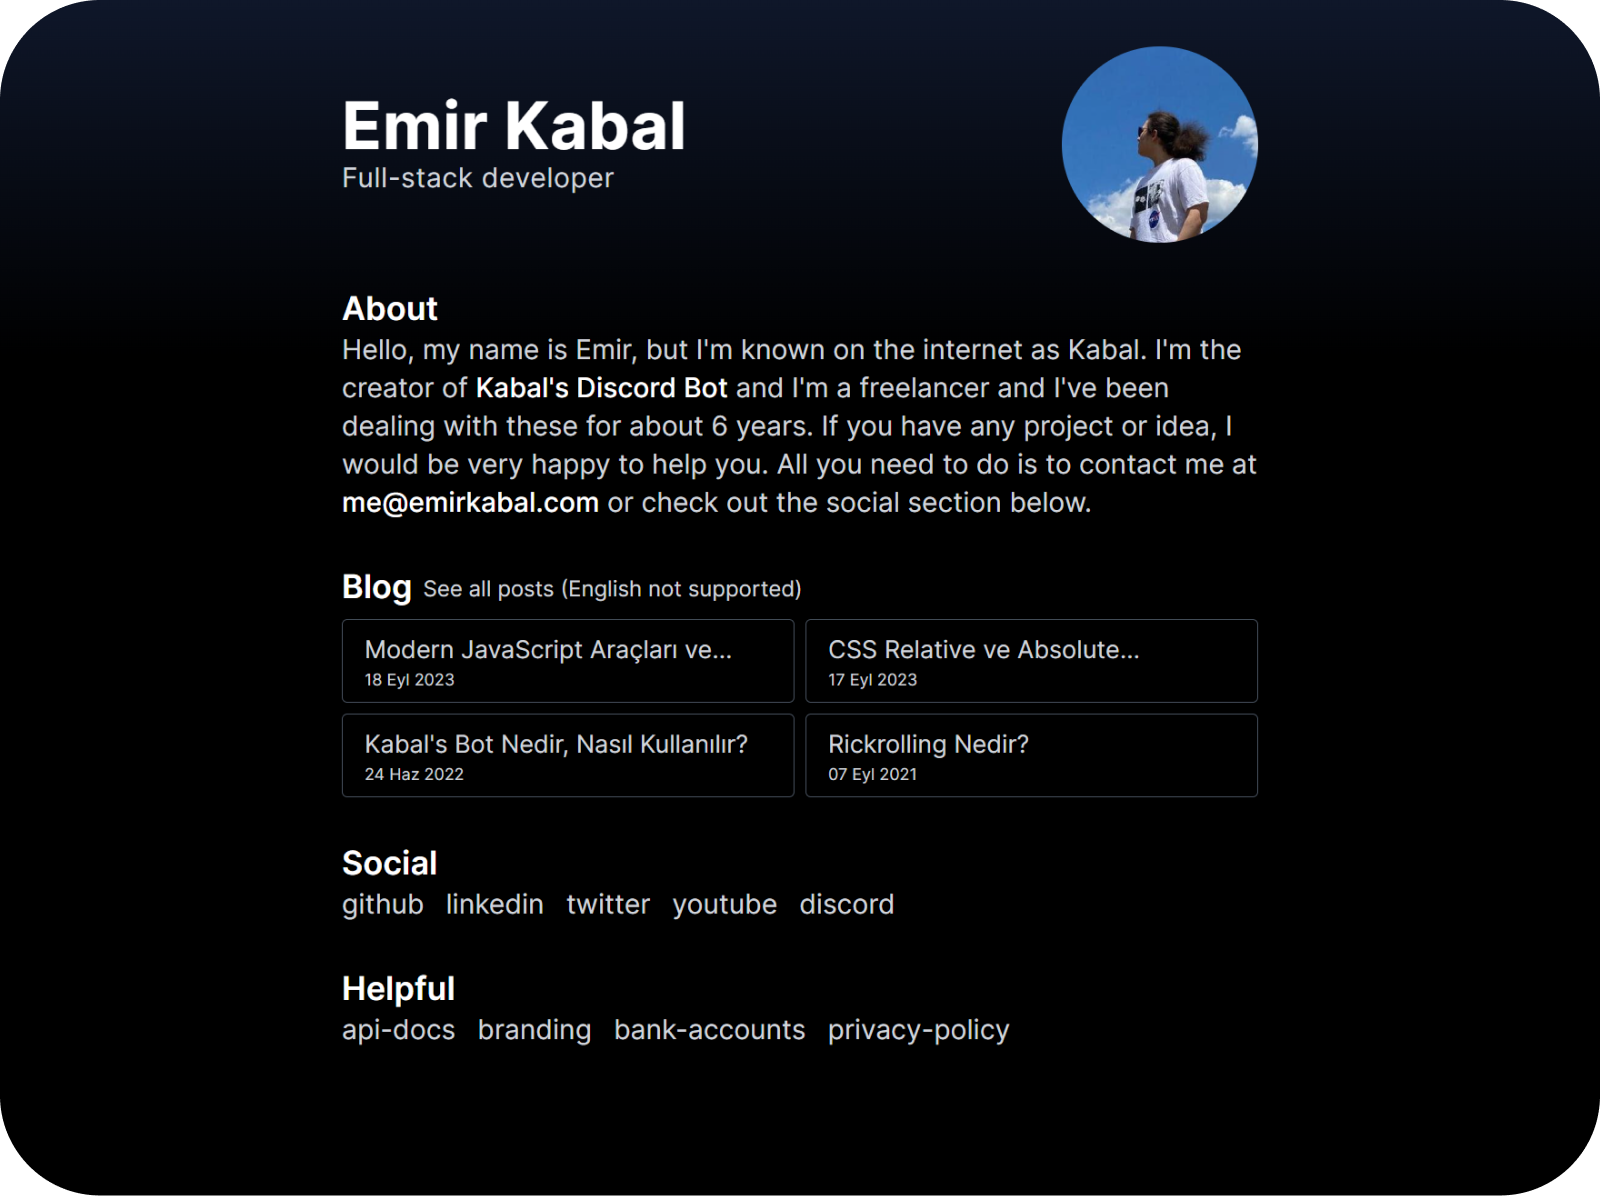
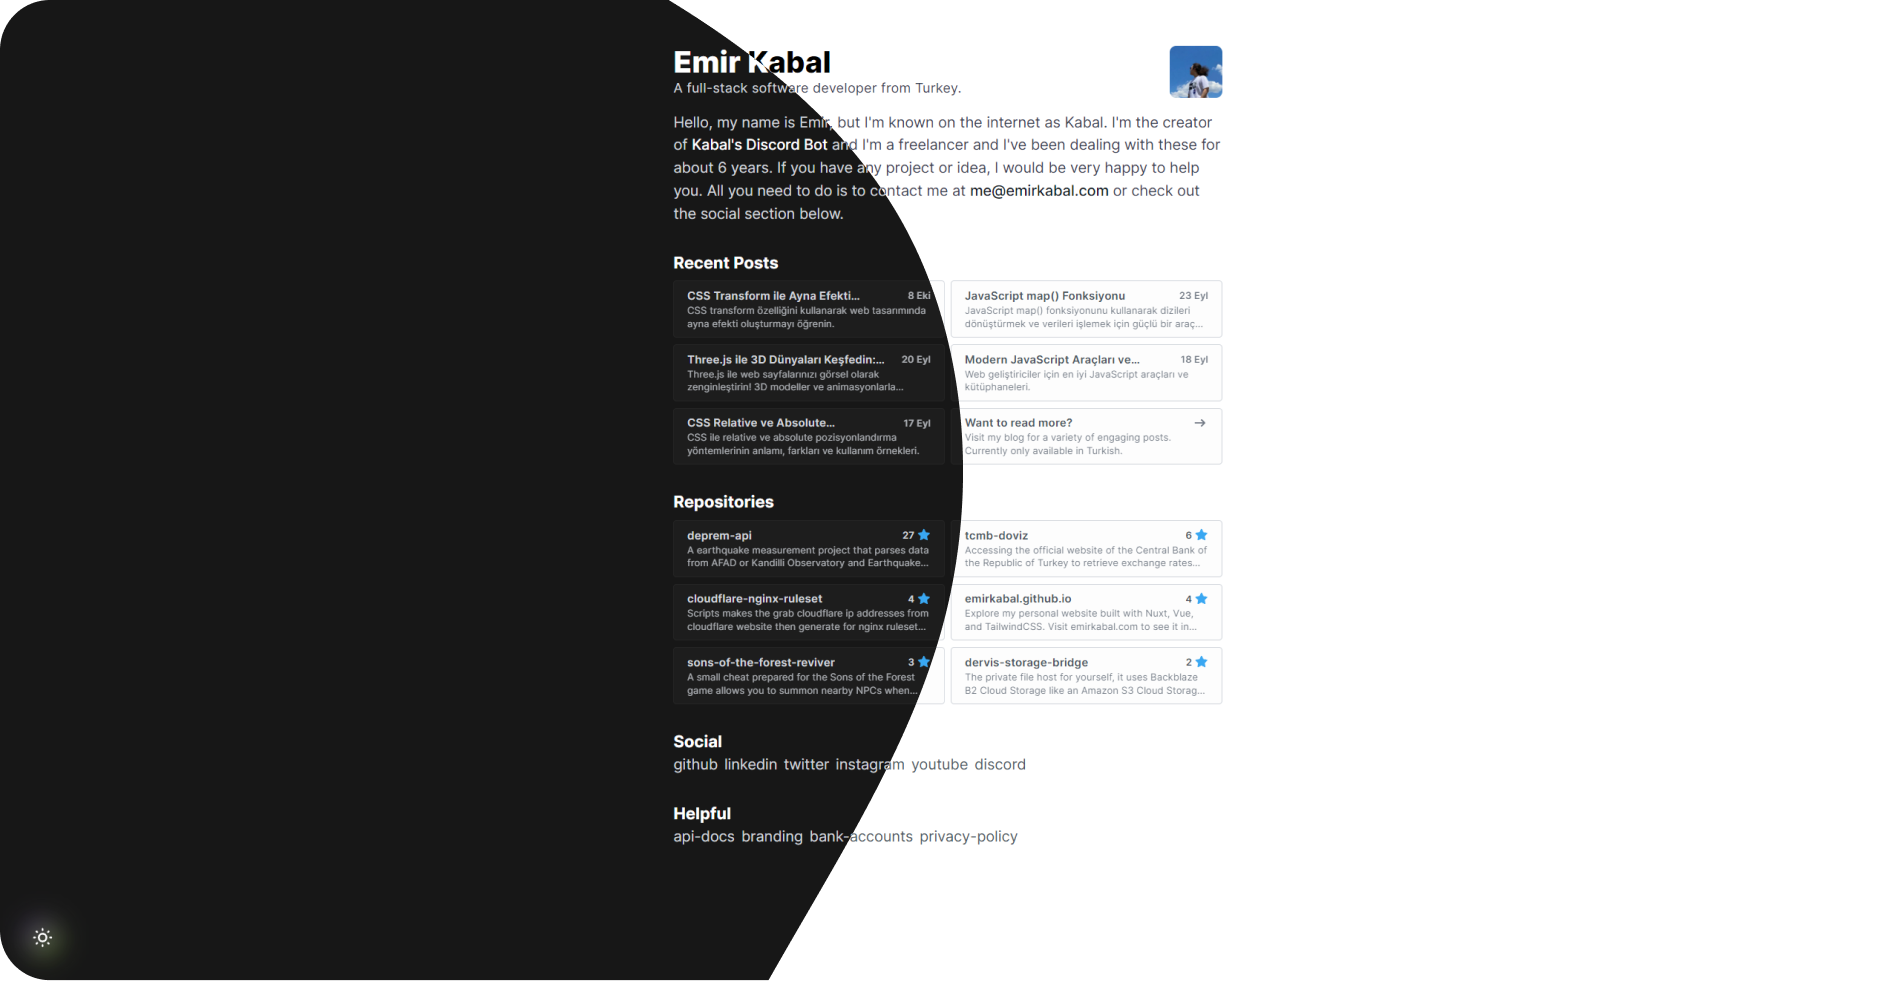
better ui

diff --git a/src/pages/index.vue b/src/pages/index.vue
@@ -3,11 +3,11 @@ import { Repository } from '~/@types'
 
 const { data: posts } = await useAsyncData('homepage-posts', () =>
   queryContent('blog')
-    .limit(4)
+    .limit(5)
     .sort({
       createdAt: -1
     })
-    .only(['title', 'createdAt', '_path'])
+    .only(['title', 'createdAt', '_path', 'short_description'])
     .find()
 )
 
@@ -75,24 +75,45 @@ const footer = [
     </section>
 
     <section class="my-8" v-if="posts && posts.length > 0">
-      <div class="mb-2 flex items-center gap-2">
-        <h3 class="text-xl font-bold">Blog</h3>
-        <NuxtLink
-          to="/blog"
-          class="mt-1 text-sm text-gray-600 transition-colors hover:text-black dark:text-gray-300 dark:hover:text-white"
-          >See all posts (Turkish only)</NuxtLink
-        >
-      </div>
+      <h2 class="mb-2 text-xl font-bold">Recent Posts</h2>
       <ul class="grid grid-cols-1 gap-2 sm:grid-cols-2">
         <li v-for="post in posts" :key="post.createdAt">
           <NuxtLink
-            class="inline-block w-full cursor-pointer rounded border border-gray-300 bg-gray-50/40 px-4 py-2 text-gray-600 transition-colors hover:border-gray-400 hover:text-black dark:border-neutral-800 dark:bg-neutral-800/40 dark:text-gray-300 dark:hover:border-neutral-700 dark:hover:text-white"
+            class="group inline-block w-full cursor-pointer rounded border border-gray-300 bg-gray-50/40 px-4 py-2 text-gray-600 transition-colors hover:border-gray-400 hover:text-black dark:border-neutral-800 dark:bg-neutral-800/40 dark:text-gray-300 dark:hover:border-neutral-700 dark:hover:text-white"
             :to="post._path"
           >
-            <h3 class="line-clamp-1 text-sm">{{ post.title }}</h3>
-            <time class="line-clamp-1 text-xs font-semibold">
-              {{ $moment(post.createdAt).locale('tr').format('D MMM YYYY') }}
-            </time>
+            <div class="flex items-center justify-between">
+              <h2 class="line-clamp-1 text-sm font-semibold">
+                {{ post.title }}
+              </h2>
+              <time
+                class="ml-2 flex-shrink-0 text-xs font-semibold opacity-80 transition-opacity group-hover:opacity-100"
+              >
+                {{ $betterFormat(post.createdAt) }}
+              </time>
+            </div>
+            <p class="line-clamp-2 text-xs opacity-80">
+              {{ post.short_description }}
+            </p>
+          </NuxtLink>
+        </li>
+        <li>
+          <NuxtLink
+            class="group inline-block w-full cursor-pointer rounded border border-gray-300 bg-gray-50/40 px-4 py-2 text-gray-600 transition-colors hover:border-gray-400 hover:text-black dark:border-neutral-800 dark:bg-neutral-800/40 dark:text-gray-300 dark:hover:border-neutral-700 dark:hover:text-white"
+            to="/blog"
+          >
+            <div class="flex items-center justify-between">
+              <h3 class="line-clamp-1 text-sm font-semibold">
+                Want to read more?
+              </h3>
+              <IconsArrow
+                class="inline-block h-5 w-5 opacity-80 transition-opacity group-hover:opacity-100"
+              />
+            </div>
+            <p class="line-clamp-2 text-xs opacity-80">
+              Visit my blog for a variety of engaging posts. Currently only
+              available in Turkish.
+            </p>
           </NuxtLink>
         </li>
       </ul>
@@ -123,7 +144,7 @@ const footer = [
                 <IconsStar class="-mt-0.5 inline-block h-4 w-4 text-klue" />
               </span>
             </div>
-            <p class="line-clamp-3 text-xs opacity-80">
+            <p class="line-clamp-2 text-xs opacity-80">
               {{ repo.description }}
             </p>
           </a>
@@ -131,8 +152,8 @@ const footer = [
         <li
           v-else-if="pending"
           v-for="i in 6"
-          :key="'repol' + i"
-          class="h-[70px] w-full animate-pulse rounded bg-gray-200 dark:bg-neutral-800 sm:h-[86px]"
+          :key="'repop' + i"
+          class="h-[70px] w-full animate-pulse rounded bg-gray-200 dark:bg-neutral-800"
         ></li>
         <li v-else class="text-red-700">
           Fetch error. Please try again later.

diff --git a/src/components/icons/Sparkles.vue b/src/components/icons/Sparkles.vue
@@ -1,0 +1,18 @@
+<template>
+  <svg
+    xmlns="http://www.w3.org/2000/svg"
+    width="24"
+    height="24"
+    viewBox="0 0 24 24"
+    stroke-width="2"
+    stroke="currentColor"
+    fill="none"
+    stroke-linecap="round"
+    stroke-linejoin="round"
+  >
+    <path stroke="none" d="M0 0h24v24H0z" fill="none"></path>
+    <path
+      d="M16 18a2 2 0 0 1 2 2a2 2 0 0 1 2 -2a2 2 0 0 1 -2 -2a2 2 0 0 1 -2 2zm0 -12a2 2 0 0 1 2 2a2 2 0 0 1 2 -2a2 2 0 0 1 -2 -2a2 2 0 0 1 -2 2zm-7 12a6 6 0 0 1 6 -6a6 6 0 0 1 -6 -6a6 6 0 0 1 -6 6a6 6 0 0 1 6 6z"
+    ></path>
+  </svg>
+</template>

diff --git a/src/components/icons/External.vue b/src/components/icons/External.vue
@@ -1,0 +1,13 @@
+<template>
+  <svg
+    xmlns="http://www.w3.org/2000/svg"
+    width="1em"
+    height="1em"
+    viewBox="0 0 24 24"
+  >
+    <path
+      fill="currentColor"
+      d="M18 19H6c-.55 0-1-.45-1-1V6c0-.55.45-1 1-1h5c.55 0 1-.45 1-1s-.45-1-1-1H5a2 2 0 0 0-2 2v14c0 1.1.9 2 2 2h14c1.1 0 2-.9 2-2v-6c0-.55-.45-1-1-1s-1 .45-1 1v5c0 .55-.45 1-1 1zM14 4c0 .55.45 1 1 1h2.59l-9.13 9.13a.996.996 0 1 0 1.41 1.41L19 6.41V9c0 .55.45 1 1 1s1-.45 1-1V3h-6c-.55 0-1 .45-1 1z"
+    ></path>
+  </svg>
+</template>

diff --git a/src/components/icons/Arrow.vue b/src/components/icons/Arrow.vue
@@ -1,0 +1,13 @@
+<template>
+  <svg
+    xmlns="http://www.w3.org/2000/svg"
+    width="1em"
+    height="1em"
+    viewBox="0 0 24 24"
+  >
+    <path
+      fill="currentColor"
+      d="M16.15 13H5q-.425 0-.713-.288T4 12q0-.425.288-.713T5 11h11.15L13.3 8.15q-.3-.3-.288-.7t.288-.7q.3-.3.713-.313t.712.288L19.3 11.3q.15.15.213.325t.062.375q0 .2-.063.375t-.212.325l-4.575 4.575q-.3.3-.712.288t-.713-.313q-.275-.3-.288-.7t.288-.7L16.15 13Z"
+    ></path>
+  </svg>
+</template>

diff --git a/src/plugins/moment.ts b/src/plugins/moment.ts
@@ -4,7 +4,15 @@ import 'moment/dist/locale/tr'
 export default defineNuxtPlugin(() => {
   return {
     provide: {
-      moment
+      moment,
+      betterFormat: (date: string) =>
+        moment(date)
+          .locale('tr')
+          .format(
+            new Date(date).getFullYear() === new Date().getFullYear()
+              ? 'D MMM'
+              : 'D MMM YY'
+          )
     }
   }
 })

diff --git a/src/components/content/ProseImg.vue b/src/components/content/ProseImg.vue
@@ -67,7 +67,7 @@ const error = ref(false)
       @error=";[(loaded = false), (error = true)]"
       :alt="alt"
       format="webp"
-      sizes="100vw sm:50vw md:670px"
+      sizes="100vw sm:50vw md:768px"
       class="h-full w-full object-contain object-center"
       :class="{
         'pointer-events-none absolute inset-0 left-0 top-0 !h-0 !w-0 opacity-0':

diff --git a/src/pages/blog/index.vue b/src/pages/blog/index.vue
@@ -72,7 +72,7 @@ useSeoMeta({
       :key="group.date.toString()"
     >
       <h6 class="text-xl font-bold sm:text-2xl">
-        {{ $moment(group.date).locale('tr').format('MMMM YYYY') }}
+        {{ $moment(group.date).locale('tr').format('YYYY MMMM') }}
       </h6>
       <ul class="space-y-2">
         <li v-for="post in group.posts" :key="post._path">

diff --git a/src/components/Header.vue b/src/components/Header.vue
@@ -16,11 +16,11 @@
           </h1>
           <Presence />
         </div>
-        <p
+        <h6
           class="text-sm leading-4 text-gray-700 dark:text-gray-300 sm:text-base"
         >
           A full-stack software developer from Turkey.
-        </p>
+        </h6>
       </div>
       <img
         src="~/assets/images/me.jpg"

diff --git a/src/components/content/Checkout.vue b/src/components/content/Checkout.vue
@@ -1,0 +1,10 @@
+<template>
+  <div
+    class="flex w-full rounded bg-gray-100 px-4 py-2 leading-6 dark:bg-neutral-800"
+  >
+    <IconsSparkles class="mr-2 mt-0.5 hidden h-6 w-6 flex-shrink-0 sm:block" />
+    <div>
+      <p class="m-0"><slot /></p>
+    </div>
+  </div>
+</template>

diff --git a/src/content/blog/rickrolling-nedir.md b/src/content/blog/rickrolling-nedir.md
@@ -6,7 +6,9 @@ image: 'rickrolling-nedir/fiyjwf2hvaly4w9a10bi.jpg'
 createdAt: '2021-09-07T00:00:00.000Z'
 ---
 
-Rickrolling bir dans türü ve internet akımıdır. 1987 yılında Rick Astley'in [Never Gonna Give You Up](#şarkı-never-gonna-give-you-up) şarkısının klibinde yaptığı danslar sebebiyle çok popüler olmuştur. Günümüzde bu dans protestolarda, 1 Nisan günlerinde yapılmaktadır. Zaman, zaman bazı insanlar arkadaşlarına şaka yapmak için bit.ly tarzında link kısaltma sitelerini kullanarak [Never Gonna Give You Up](#şarkı-never-gonna-give-you-up) Şarkısını kısaltarak, kısaltılmış bağlantıyı arkadaşlarına yollarlar ve şakaya maruz kalan arkadaşımız bu müthiş, efsanevi şarkı ile baş başa kalır.
+Rickrolling bir dans türü ve internet akımıdır. 1987 yılında Rick Astley'in [Never Gonna Give You Up](#şarkı-never-gonna-give-you-up) şarkısının klibinde yaptığı danslar sebebiyle çok popüler olmuştur. Günümüzde bu dans protestolarda ve 1 Nisan günlerinde yapılmaktadır. Zaman, zaman bazı arkadaş grupları birbirlerine şaka yapmak için bit.ly veya herhangi bir başka link kısaltma servislerini kullanarak [Never Gonna Give You Up](#şarkı-never-gonna-give-you-up) Şarkısını kısaltarak, kısaltılmış bağlantıyı arkadaşlarına yollarlar ve şakaya maruz kalan arkadaşlarımız bu müthiş efsanevi şarkı ile baş başa kalır.
+
+:checkout{}[Eğer siz de bu internet akımını devam ettirmek ve arkadaşlarınıza şaka yapmak istiyorsanız **[dontclickme.emirkabal.com](https://dontclickme.emirkabal.com/)** adresini paylaşabilirsiniz.]
 
 ## Peki Kim Bu Bahsi Geçen Şarkıcı?
 
